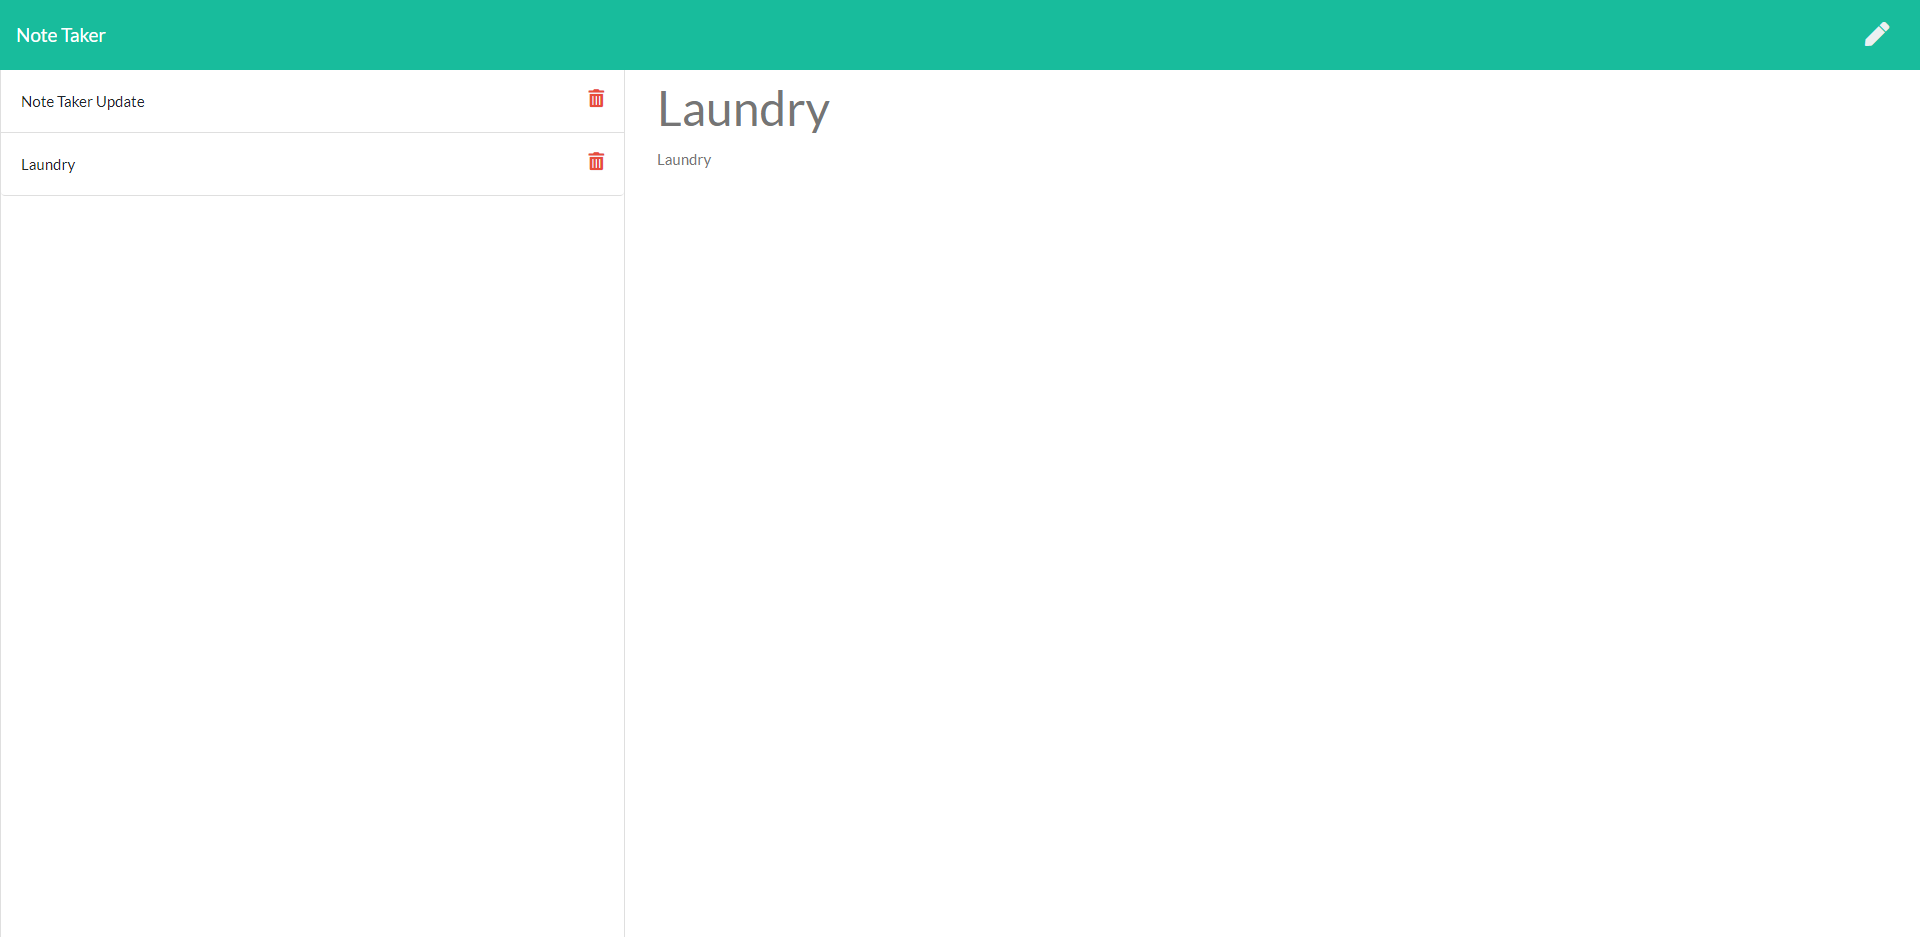
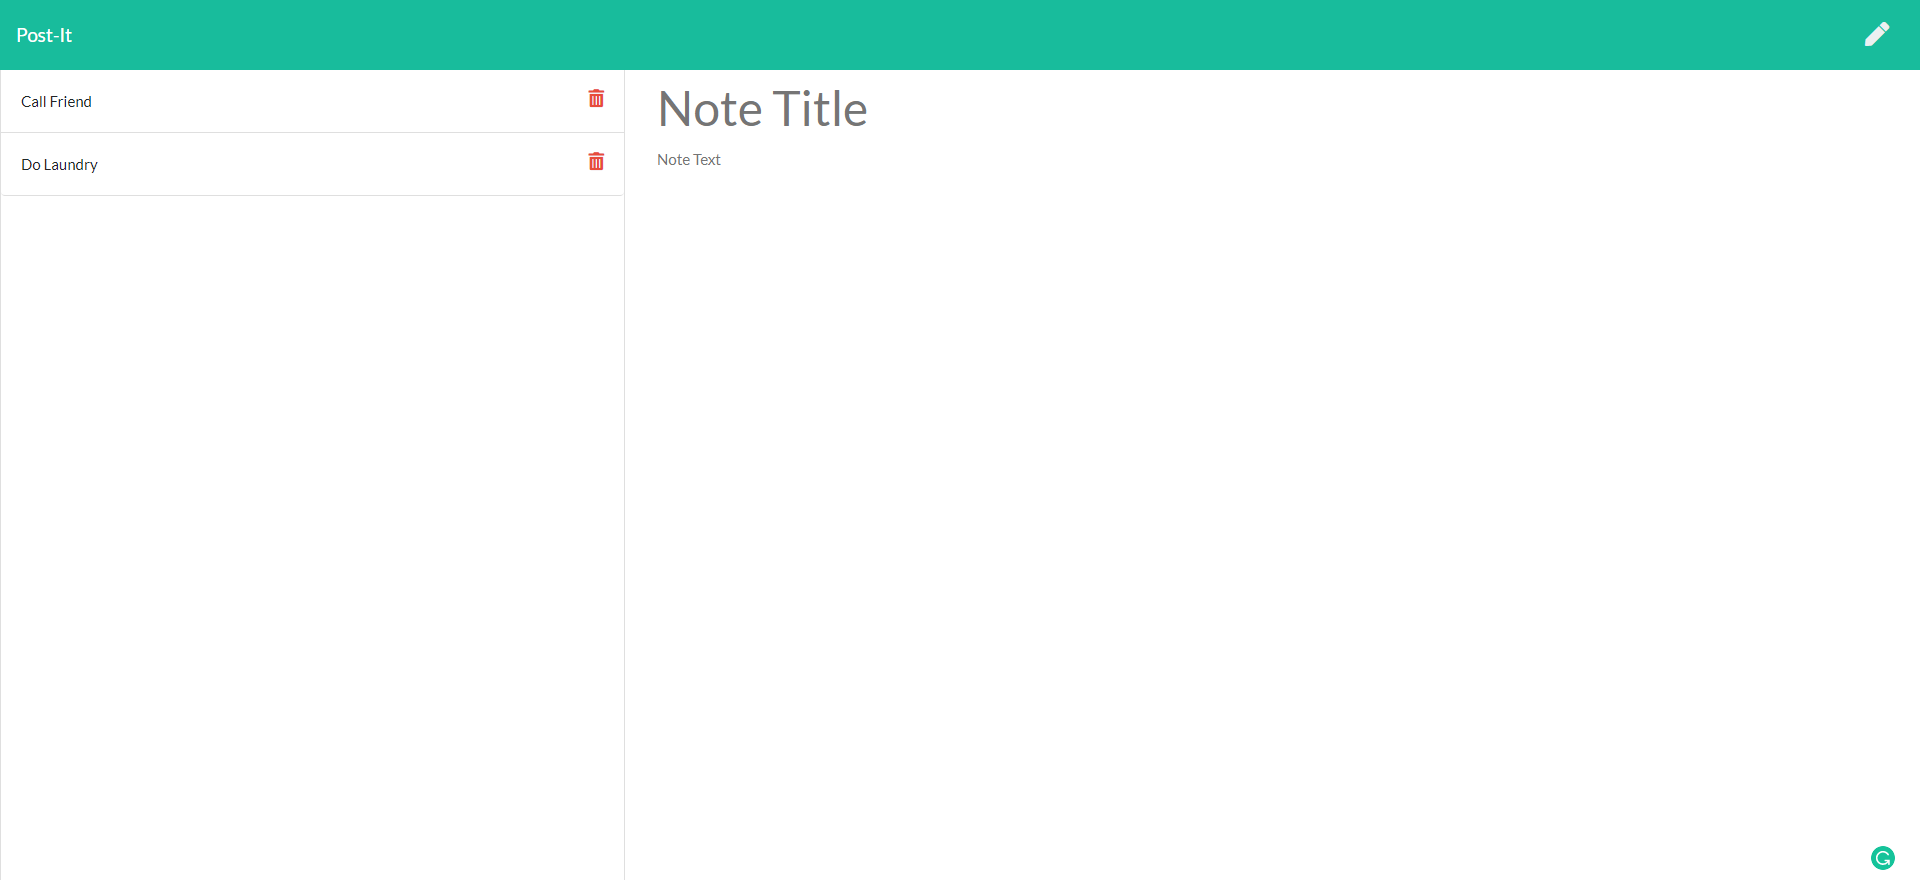
Updated README and added one more Screenshot

diff --git a/README.md b/README.md
@@ -1,4 +1,4 @@
-# My Team Profile
+# Post-It
 
 ## License
 
@@ -60,7 +60,9 @@ Body Form
 
 ### Screenshot of the Application
 
-![Screenshot of the page](./assets/images/screenshot-01.PNG)
+![Screenshot of the Homepage](./assets/images/screenshot-01.png)
+
+![Screenshot of the Post-It Board](./assets/images/screenshot-02.png)
 
 ## Questions
 
